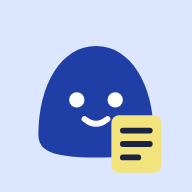
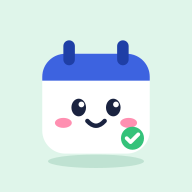
덤푸 v1.1: 아이콘을 귀여운 달력 덤푸(E)로 바꿈
Claude-Session: https://claude.ai/code/session_01YJdLiUpELweXAc2hzR9QJa

diff --git a/web/config.js b/web/config.js
@@ -2,6 +2,6 @@
 (function(){
 var VERSION=(document.querySelector('meta[name=app-version]')||{}).content||'1.0';
 window.APP_INFO={name:'덤푸',repo:'dlsdml99-create/dumpu',apkName:'dumpu.apk',version:VERSION,online:location.protocol!=='file:',mount:'#ver',
-  notes:[['1.0','2026.11.09','처음 나왔어요. 먼슬리에 우다다 적고 주차 버튼으로 위클리, 요일 버튼으로 데일리 정리. 완료 날짜 기록과 달력 표시, 밀린 일 옮기기, 반복 할 일, 색깔, 홈 화면 위젯, 아침 알림.']],
+  notes:[['1.1','2026.11.09','아이콘이 더 귀여워졌어요. 웃는 달력 덤푸가 할 일을 다 하면 초록 체크를 달아 줘요.'],['1.0','2026.11.09','처음 나왔어요. 먼슬리에 우다다 적고 주차 버튼으로 위클리, 요일 버튼으로 데일리 정리. 완료 날짜 기록과 달력 표시, 밀린 일 옮기기, 반복 할 일, 색깔, 홈 화면 위젯, 아침 알림.']],
   privacy:'적은 할 일과 완료 기록은 이 기기에만 저장돼요. 계정·서버·광고·사용 기록 전송이 없어요. 인터넷은 새 버전 확인(GitHub 공개 정보 읽기)에만 써요.'};
 })();

diff --git a/site/index.html b/site/index.html
@@ -79,6 +79,7 @@ footer{margin-top:40px;color:var(--muted);font-size:13px}
   </div>
 
   <h2>업데이트 내용 <span class="n">최신 v{{VERSION}}</span></h2>
+  <div class="upd"><b>v1.1 · 2026.11.09</b>아이콘이 더 귀여워졌어요. 웃는 달력 덤푸가 할 일을 다 하면 초록 체크를 달아 줘요.</div>
   <div class="upd"><b>v1.0 · 2026.11.09</b>처음 나왔어요. 먼슬리 우다다 입력, 주차·요일 버튼 정리, 완료 날짜 기록과 달력 표시, 밀린 일 옮기기, 반복 할 일, 색깔, 홈 화면 위젯, 아침 알림.</div>
 
   <h2>설치 방법</h2>

diff --git a/web/index.html b/web/index.html
@@ -3,7 +3,7 @@
 <head>
 <meta charset="utf-8">
 <meta name="viewport" content="width=device-width,initial-scale=1,viewport-fit=cover">
-<meta name="app-version" content="1.0">
+<meta name="app-version" content="1.1">
 <meta http-equiv="Content-Security-Policy" content="default-src 'self'; script-src 'self'; style-src 'self' 'unsafe-inline'; img-src 'self' data:; connect-src https://api.github.com; object-src 'none'; base-uri 'none'; form-action 'none'; frame-src 'none'">
 <meta name="referrer" content="no-referrer">
 <meta name="theme-color" content="#FBFAF6">
